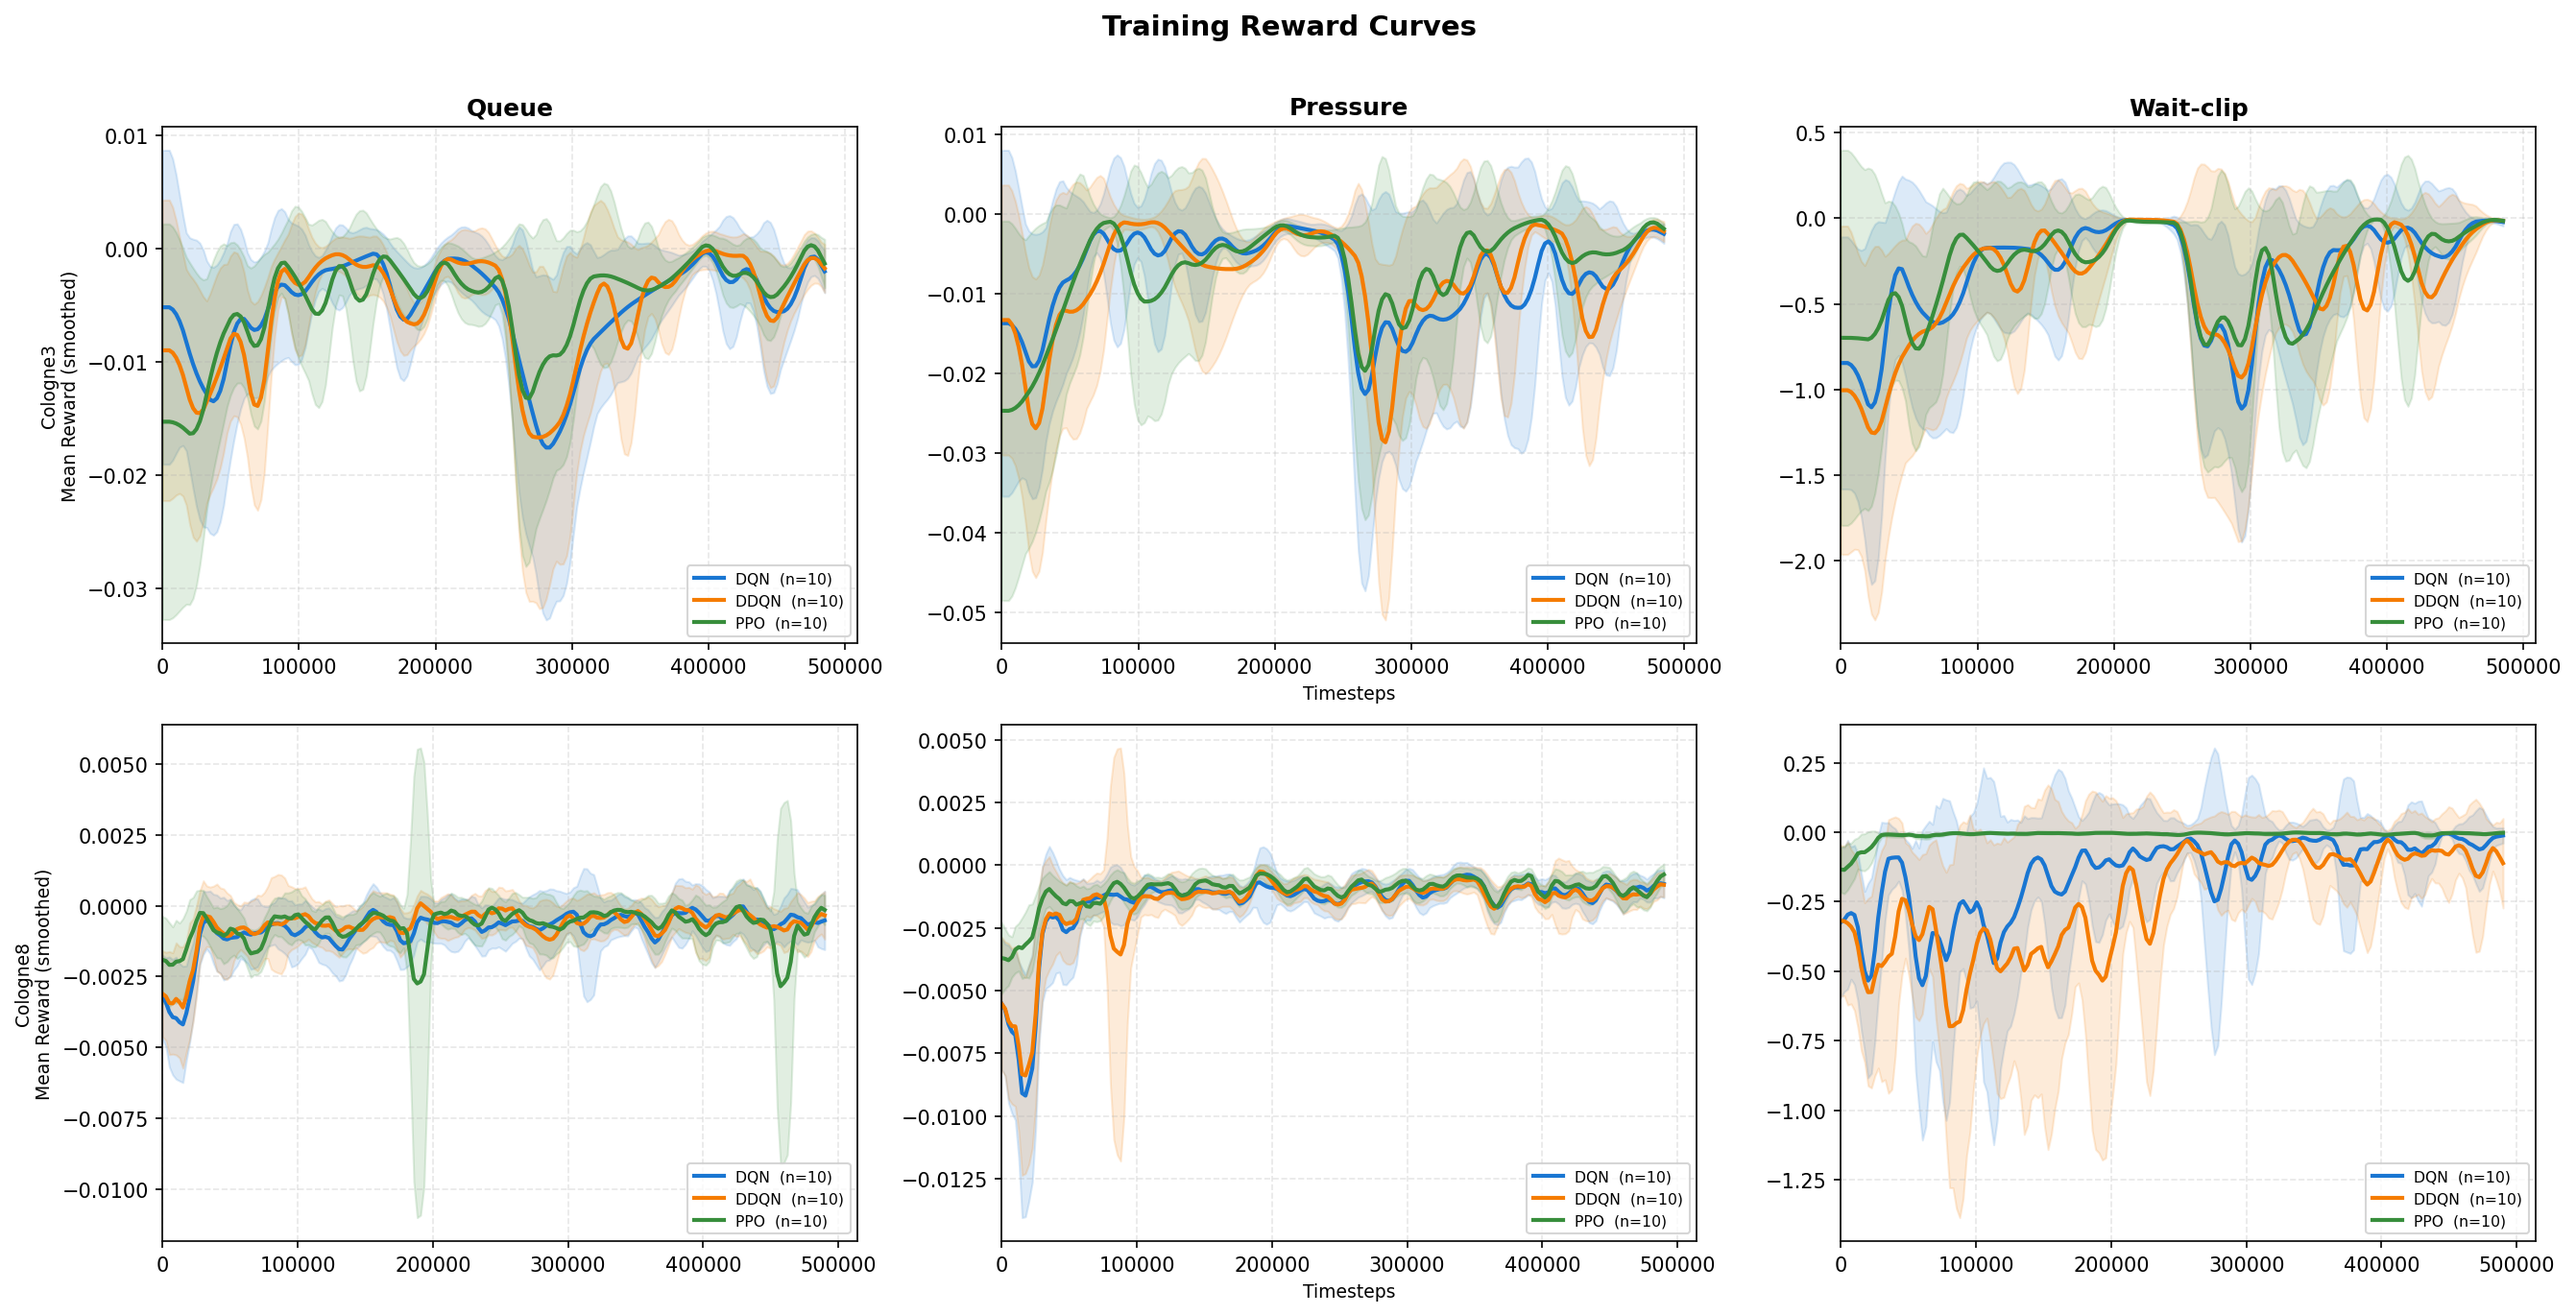
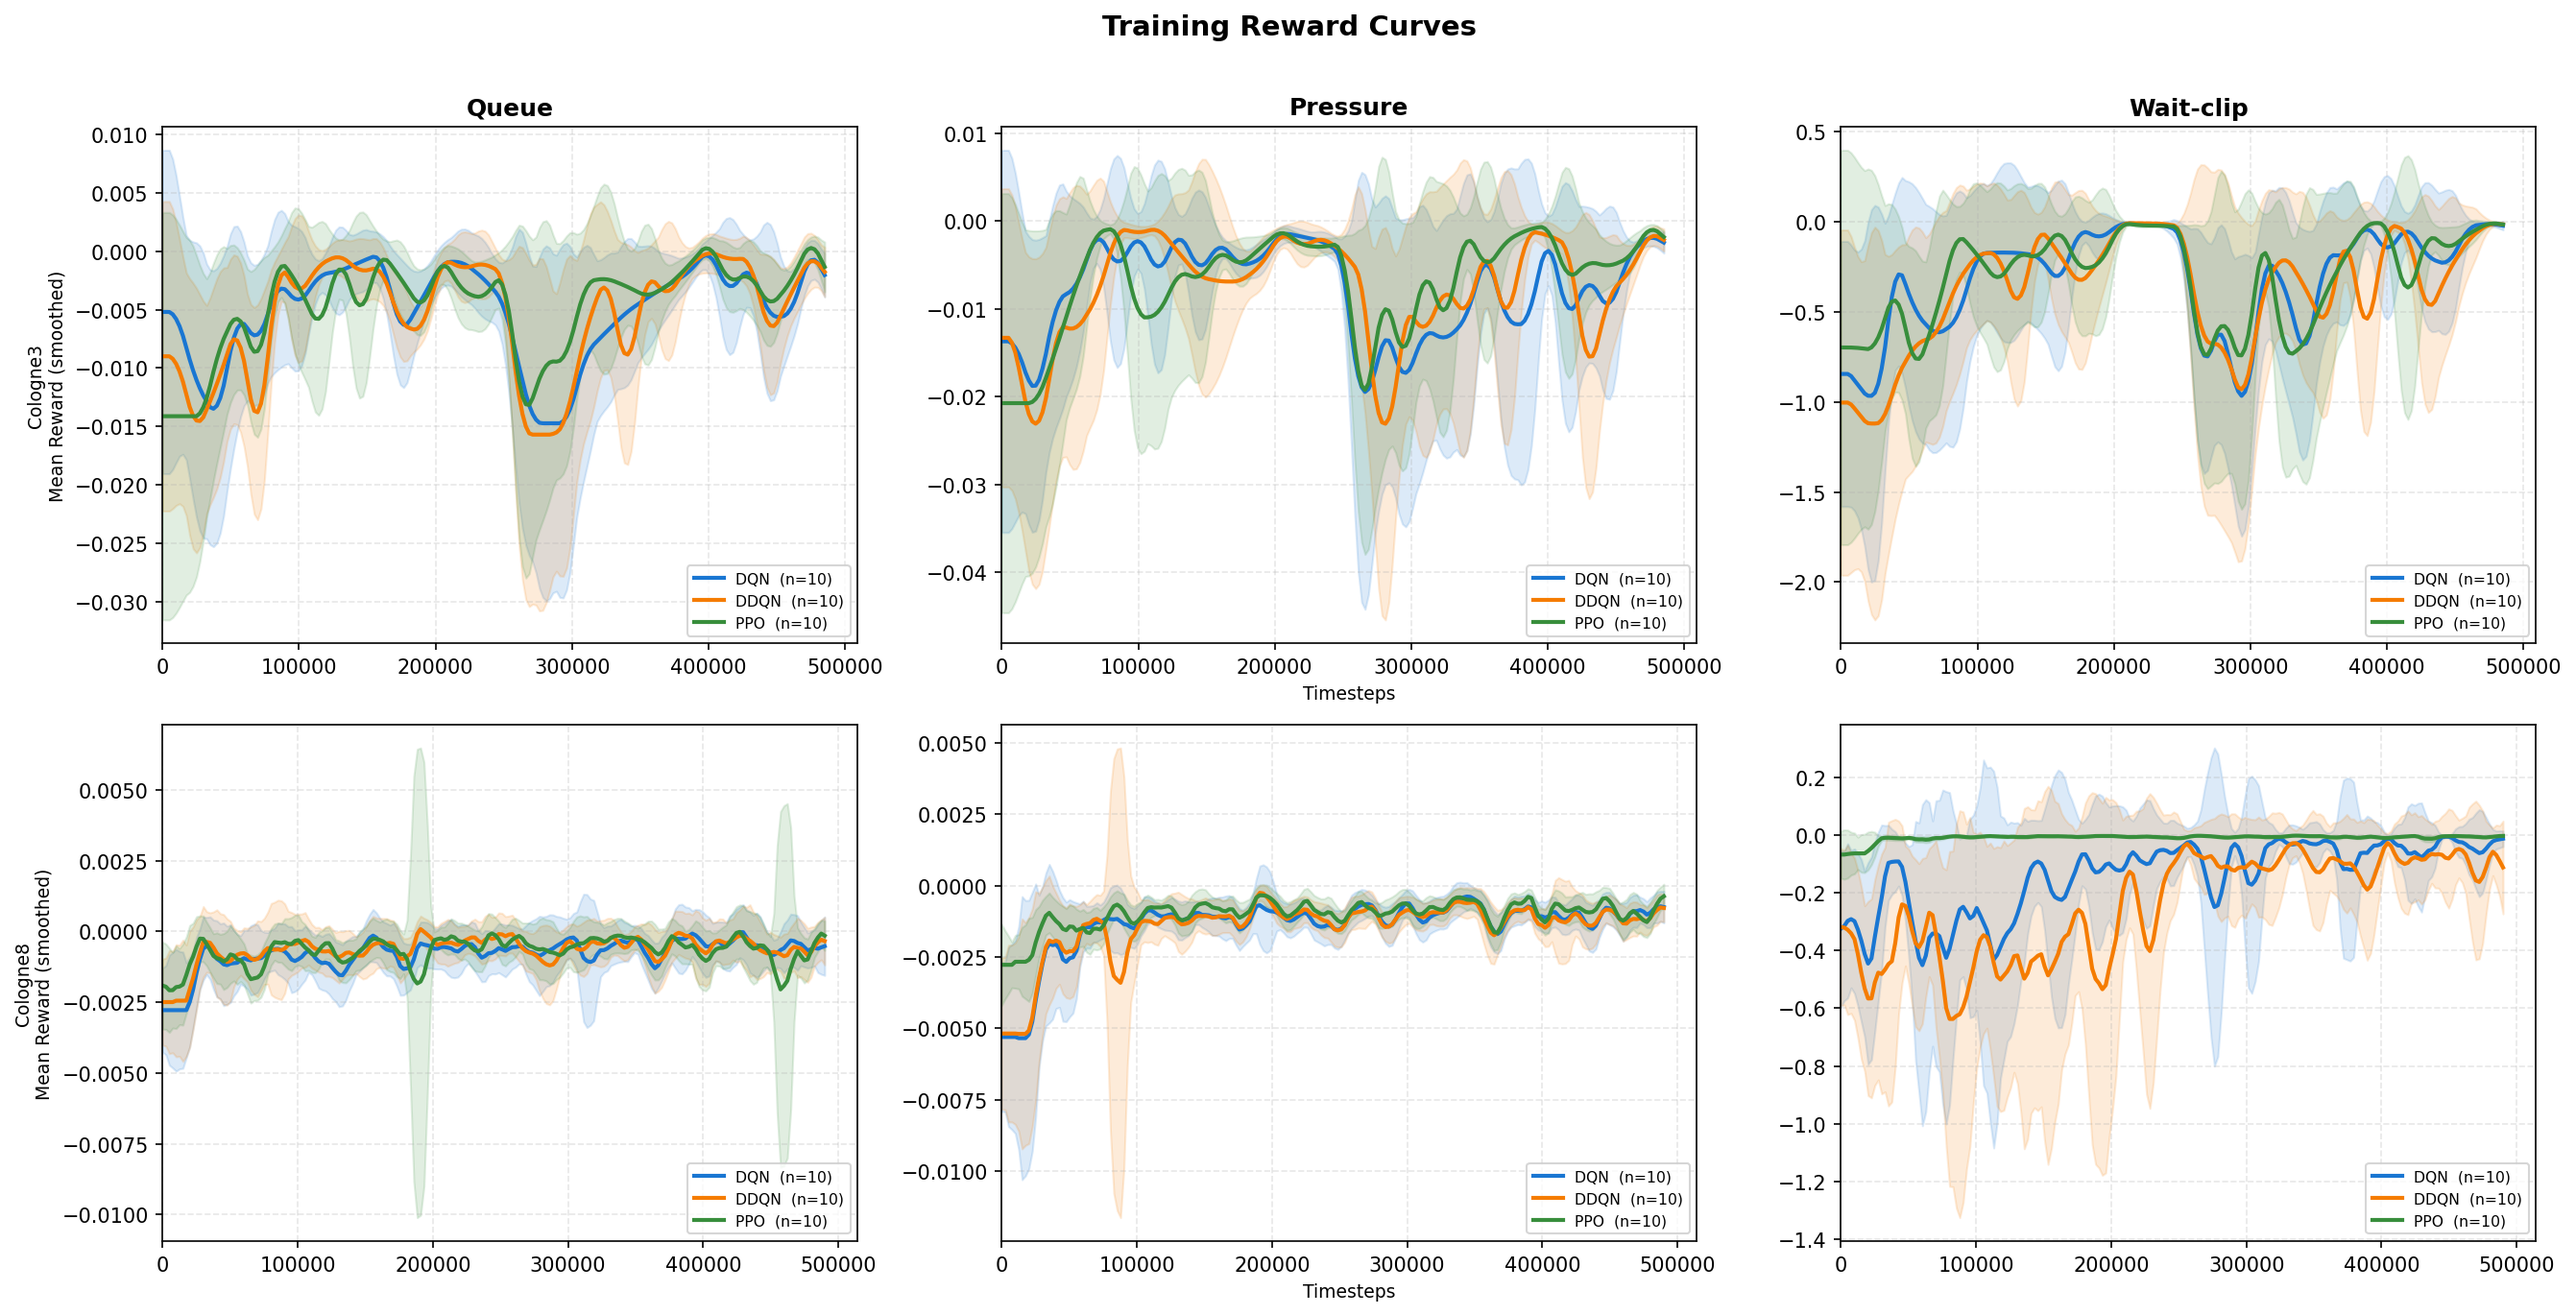
use MAD-based clipping

diff --git a/plot_training_curves.py b/plot_training_curves.py
@@ -57,10 +57,14 @@ def parse_log(path: Path):
     return steps, rewards
 
 
-def clip_outliers(arr, sigma=2.5):
+def clip_outliers_mad(arr, sigma=3.0):
+    """Clip outliers using MAD (robust to single extreme values)."""
+    arr = np.asarray(arr, dtype=float)
     if len(arr) < 4:
         return arr
-    m, s = np.median(arr), np.std(arr)
+    m   = np.median(arr)
+    mad = np.median(np.abs(arr - m))
+    s   = max(mad * 1.4826, 1e-9)
     return np.clip(arr, m - sigma * s, m + sigma * s)
 
 
@@ -96,7 +100,10 @@ def load_logs(log_dir: Path):
 def interp_mean_std(runs, n_pts=200):
     max_step = max(s[-1] for s, _ in runs if s)
     x = np.linspace(0, max_step, n_pts)
-    arr = np.array([np.interp(x, s, r) for s, r in runs if len(s) >= 2])
+    arr = np.array([
+        np.interp(x, s, clip_outliers_mad(np.array(r)))
+        for s, r in runs if len(s) >= 2
+    ])
     if arr.ndim == 1 or len(arr) == 0:
         return x, np.array([]), np.array([])
     return x, arr.mean(axis=0), arr.std(axis=0)
@@ -138,7 +145,6 @@ def plot_grid(data_c3: dict, data_c8: dict, out: Path):
                 x, mean, std = interp_mean_std(runs)
                 if len(mean) == 0:
                     continue
-                mean = clip_outliers(mean)
                 sm = smooth(mean, w=5)
                 ss = smooth(std,  w=5)
                 xs = x[:len(sm)]
